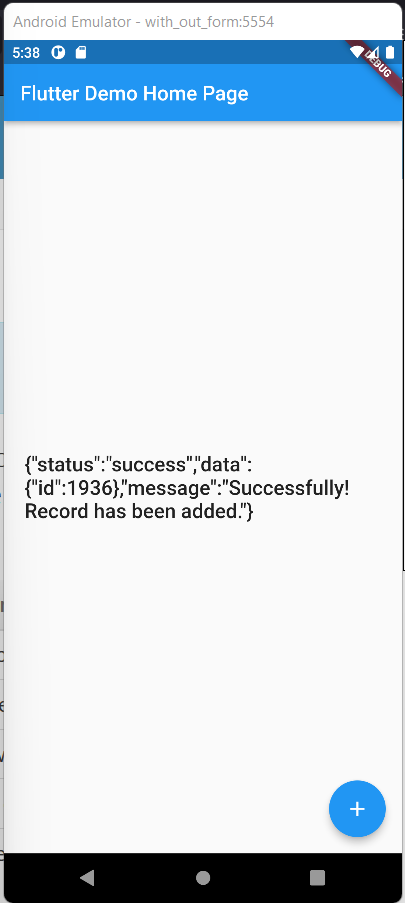
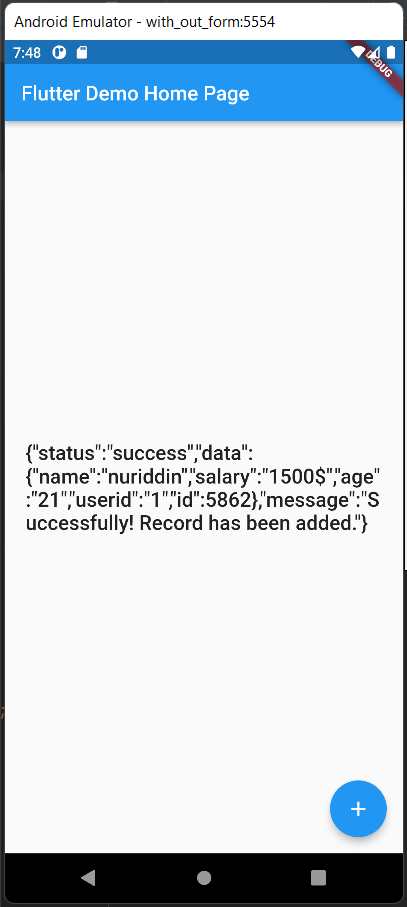
pap task 6.5 network

diff --git a/lib/main.dart b/lib/main.dart
@@ -77,7 +77,7 @@ class _MyHomePageState extends State<MyHomePage> {
   void initState() {
     // TODO: implement initState
     super.initState();
-    _Api_post();
+    _Api_get();
    
   }
 
